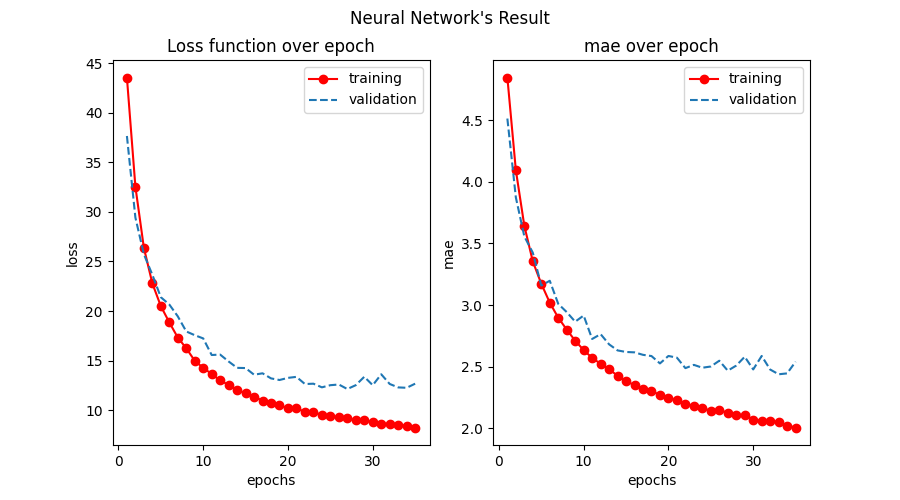
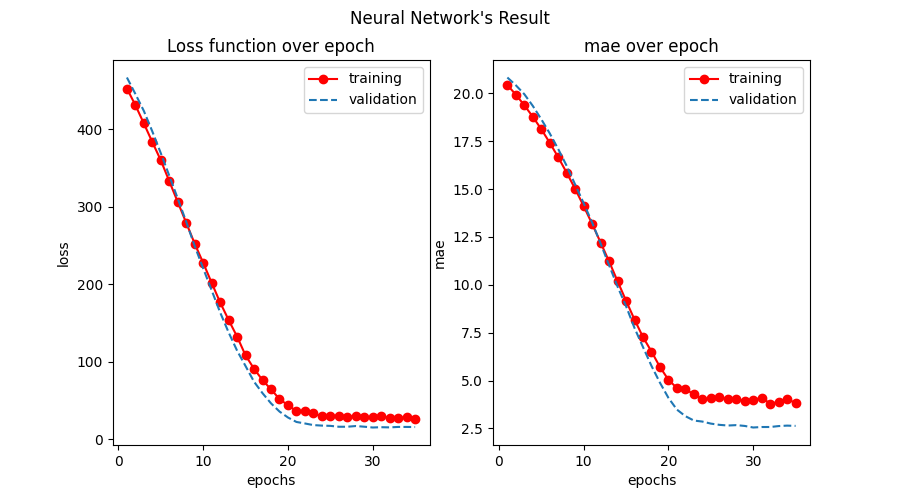
C1 > 3 Manejo de redes neuronales con Keras - Regresión

diff --git a/1 Curso de fundamentos de redes neuronales/3 Manejo de redes neuronales con Keras/regresión/main.py b/1 Curso de fundamentos de redes neuronales/3 Manejo de redes neuronales con Keras/regresión/main.py
@@ -4,12 +4,15 @@ os.environ['TF_CPP_MIN_LOG_LEVEL'] = '3'
 import numpy as np
 from keras.datasets import boston_housing
 from keras import models, layers
+# Biblioteca para implementar K-Fold CrossValidation
 from sklearn.model_selection import KFold
+# Biblioteca para la correcta normalización de datos numéricos
 from sklearn.preprocessing import StandardScaler
 import matplotlib.pyplot as plt
 
 
 def plot_results(out, metric, offset):
+    print(out)
     df = {}
     for key in out[0].keys():
         row = []
@@ -52,7 +55,11 @@ def train_test_split_kf(xs: np.array, ys: np.array, train_size: np.array, test_s
 def build_model_regression(dim):
     model = models.Sequential()
     model.add(layers.Dense(64, activation='relu', input_dim=dim))
+    model.add(layers.Dropout(0.3))
+    model.add(layers.BatchNormalization())
     model.add(layers.Dense(64, activation='relu'))
+    model.add(layers.Dropout(0.3))
+    model.add(layers.BatchNormalization())
     # Como la última capa es una predicción de regresión, NO necesita una capa de activación
     model.add(layers.Dense(1))
     # El error sí será el mean squared error, pero la métrica debe ser diferente, en este caso max absolute error
@@ -69,7 +76,7 @@ if __name__ == '__main__':
     n_epochs = 40
     kf = KFold(n_splits=5, shuffle=True, random_state=42)
     standard_scaler = StandardScaler()
-    all_history = []
+    all_history = []  # Aquí guardaremos los resultados de cada fold
     for n_fold, (train, test) in enumerate(kf.split(train_data)):
         print(f"\t-I'm running fold {n_fold + 1}")
         x_train, x_test, y_train, y_test = train_test_split_kf(xs=train_data, ys=train_targets,
@@ -90,3 +97,5 @@ if __name__ == '__main__':
     print("End CrossValidation process.")
 
     plot_results(all_history, "mae", offset=5)
+    results = model.evaluate(test_data, test_targets)
+    print(results)
